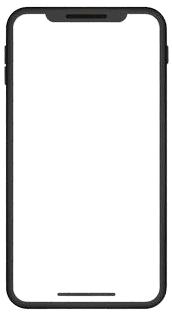
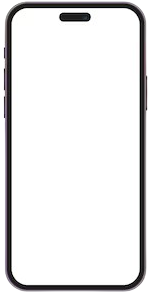
mobile mockup adjust

Changed region(s): [[0.0, 0.0, 1.0, 1.0]]

diff --git a/resources/views/users/pages/contact-us.blade.php b/resources/views/users/pages/contact-us.blade.php
@@ -110,24 +110,25 @@
             background-size: cover;
             background-position: center;
             width: 400px;
-            height: 750px;
+            height: 800px;
             position: relative;
             margin: 0 auto;
             border-radius: 30px;
 
         }
-
         .instagram-feed {
-            width: 380px;
-            height: 710px;
+            width: 350px;
+            height: 550px;
             position: absolute;
-            /* top: 10%; */
+             top: 10%; 
             left: 7.5%;
             border: none;
             overflow: hidden;
             padding: 10px;
             border-radius: 15px;
         }
+
+
 
         .innertext h3 span {
             color: rgba(216, 31, 38, 1);
@@ -1216,13 +1217,15 @@ document.addEventListener('DOMContentLoaded', function () {
                 <div class="col-lg-1"> </div>
 
                 <div class="col-lg-5 col-md-5 col-lg-5 col-xl-5 p-4 text-center" >
-                    <h4 class="text-center">Follow us on Instagram</h4>
+                <div class="card-title innertext">
+                            <h1 style="text-align:center;"> <span> Follow us on Instagram</span></h1><br>
+                        </div>
 
                     <!-- Mobile Frame Container -->
                     <div class="mobile-frame">
                         <!-- Instagram Feed Iframe -->
                         <iframe  src="https://cdn.lightwidget.com/widgets/0aa177f118285cf7b8c7d7abe5d7c349.html"
-                            scrolling="no" allowtransparency="true" class="lightwidget-widget instagram-feed" style="background: white;">
+                            scrolling="no" allowtransparency="true" class="lightwidget-widget instagram-feed">
                         </iframe>
                     </div>
                 </div>
